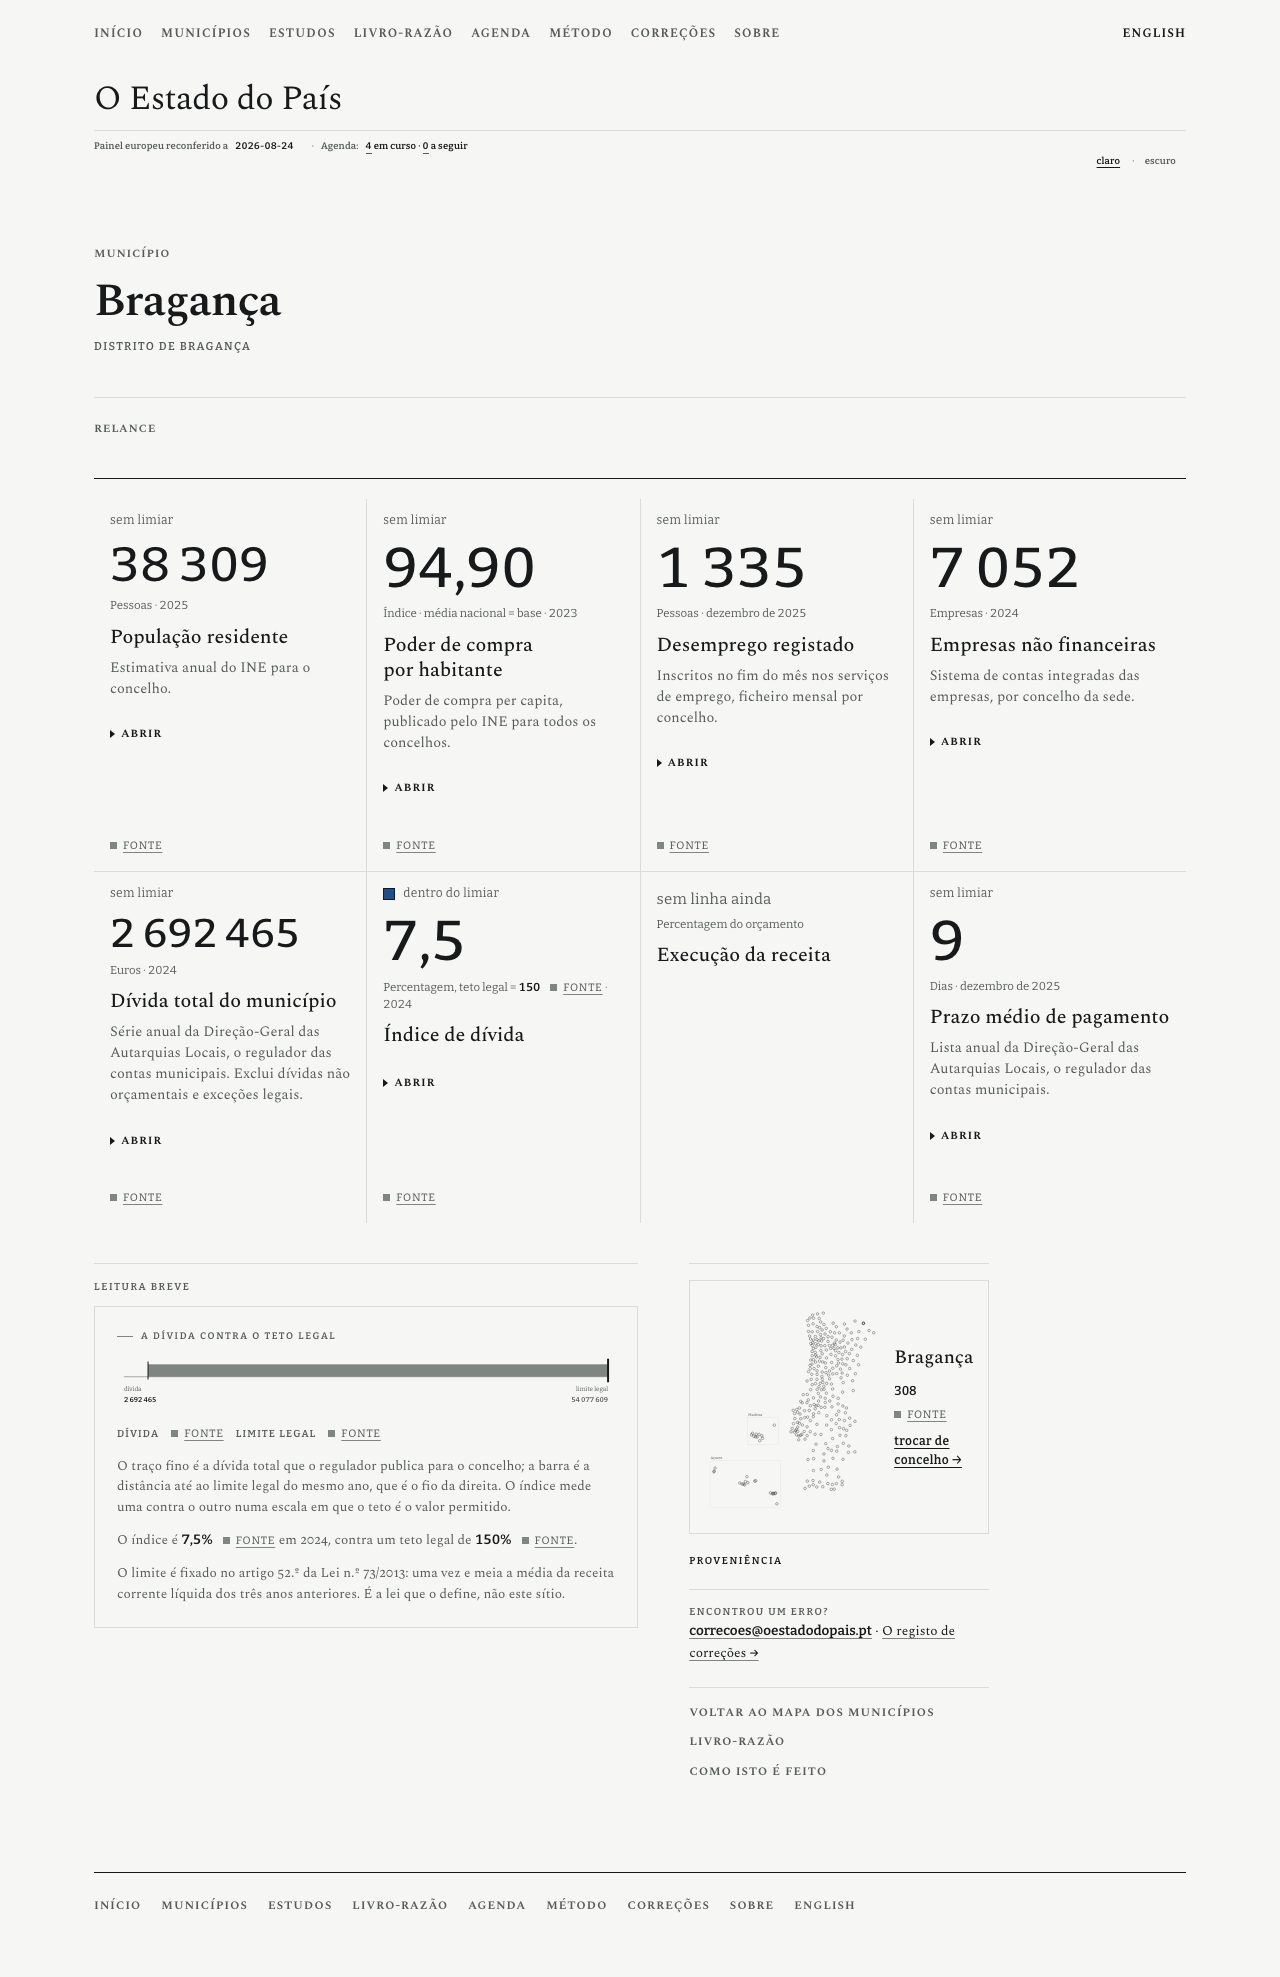
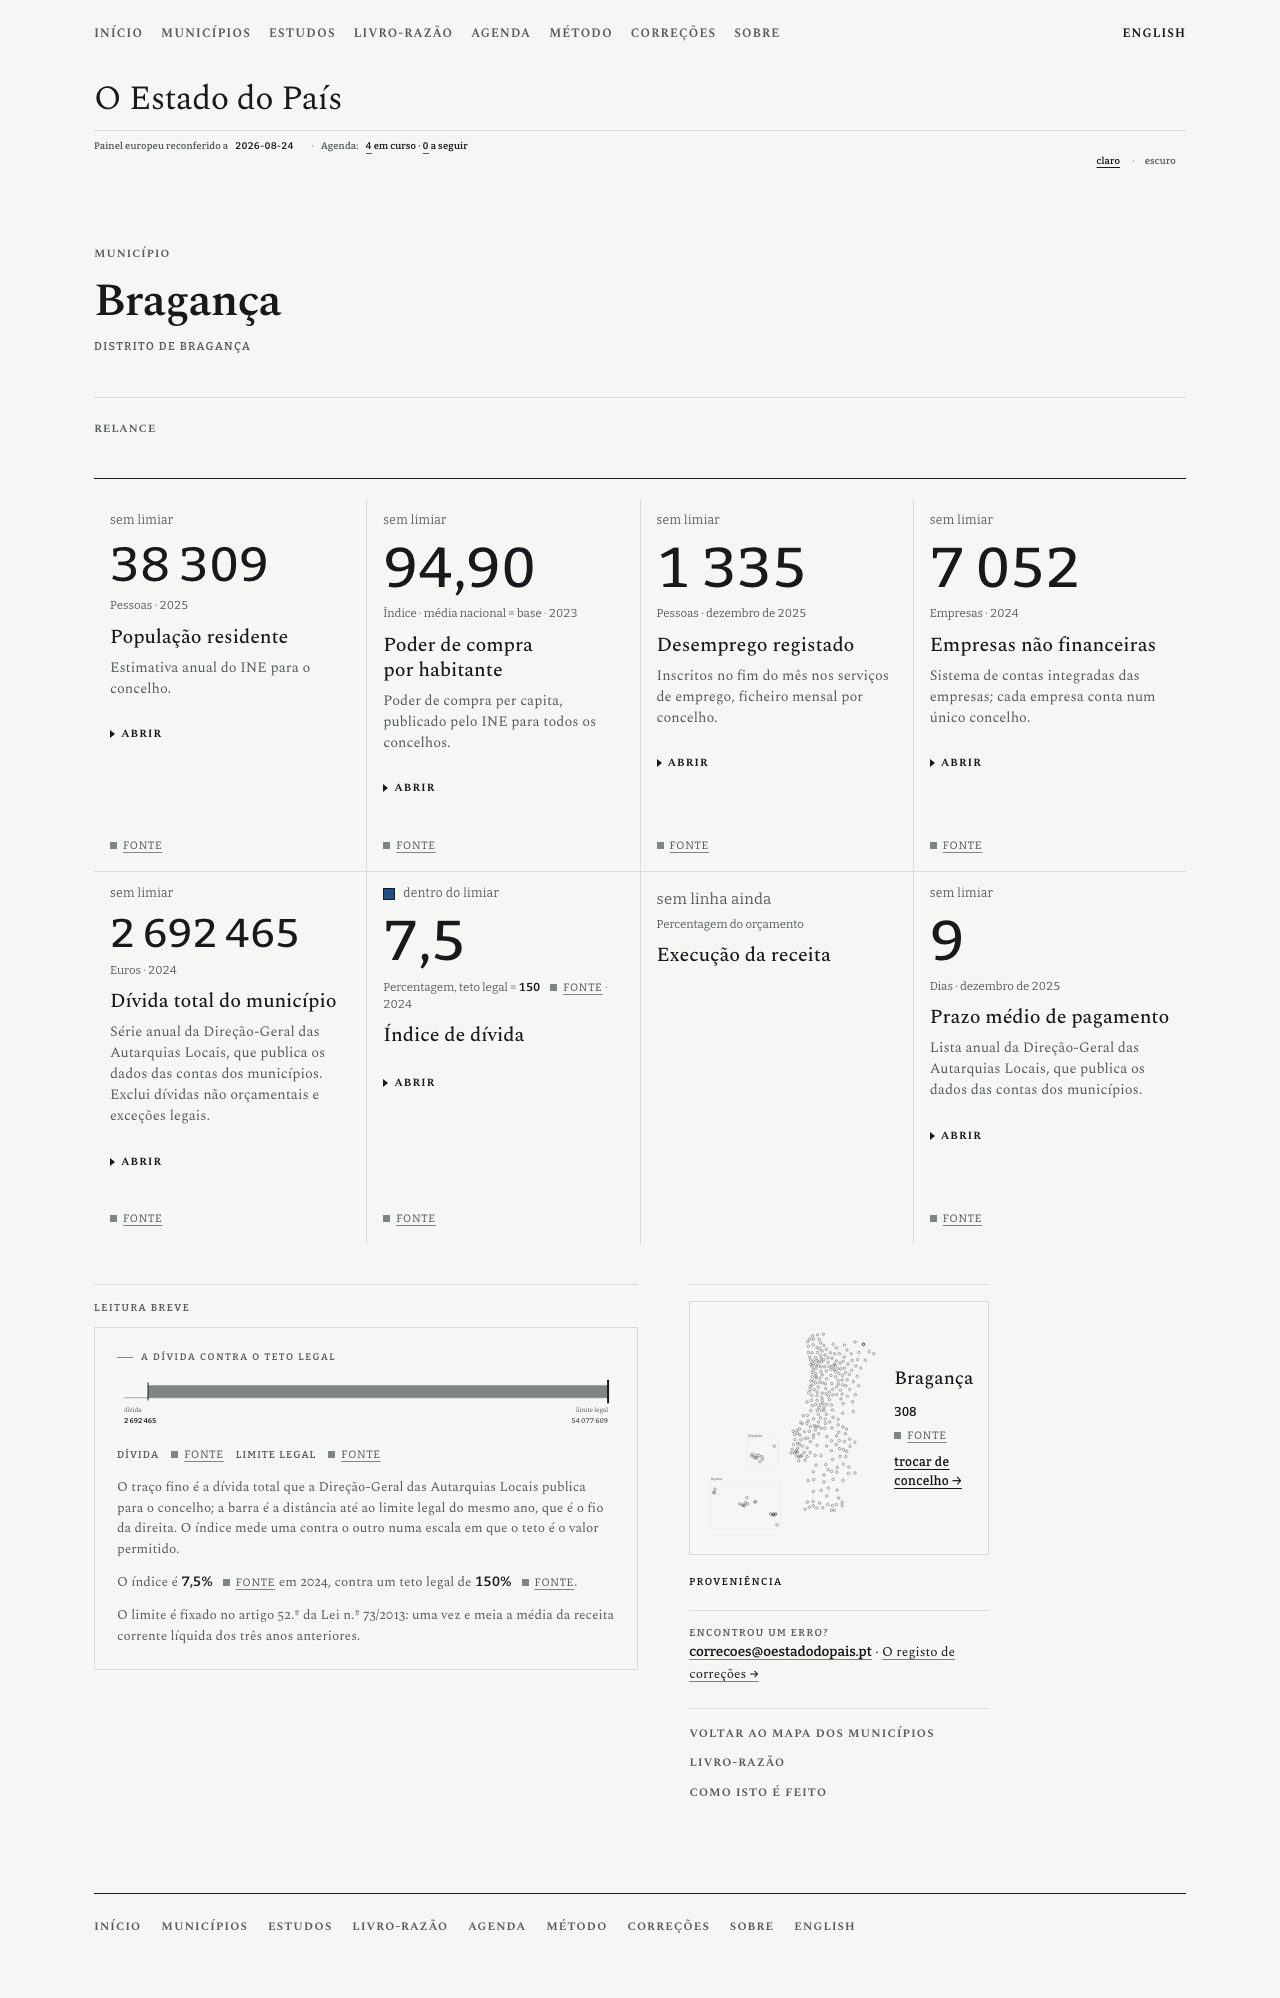
A §1.68 e a nota fecham a leitura de fora, com as doze capturas refrescadas
Os seis itens da leitura de olhos frescos registados: o que cada um corrigiu, as
duas coisas que a régua não apanhava e apanha agora, os seis estragos plantados e
a corrida completa com os dados (268,08 s, 6 406 páginas, 386 MB, tudo a sair
com zero).

E a colisão fica escrita: às 19:20, com os seis itens construídos e por cometer,
outro agente correu `git checkout` sobre doze ficheiros que julgava serem de um
script seu, e eram estes. Custou uma construção e cerca de vinte minutos. Cada
item passa a ser cometido assim que fica verde.

`CHAVES-EN.md` regista as duas edições de cada cadeia mudada: nenhuma chave nova,
onze textos mudados e um encurtado.

As capturas com dados voltam a ser tiradas onde a forma mudou: os dois índices,
a página de livro-razão de um concelho, e as três páginas de concelho.

Claude-Session: https://claude.ai/code/session_01BbaH3XteKcsmmN9VD6SGwU

diff --git a/design/especime-v3/notas/concelhos.md b/design/especime-v3/notas/concelhos.md
@@ -277,3 +277,63 @@ Os quatro últimos são plantados no `dist/`, que é o que o portão e as régua
 | `livro-concelhos-indice-*` | o índice dos concelhos no livro-razão, 10 751 px a 1280 |
 | `livro-concelho-braganca-*` | a página de livro-razão de um concelho, 1 449 px a 1280, com as suas oito linhas |
 | `linha-braganca-divida-*` | o recibo de uma linha da DGAL, com a sua proveniência |
+
+---
+
+## P2 · a leitura de fora (itens E7 a E12)
+
+*A leitura de olhos frescos do Codex sobre a construção congelada, mais as duas ressalvas do lugar de direção. Seis itens; um deles pára e volta ao motor.*
+
+### 15 · O que se corrigiu
+
+**E7 · a nota das empresas afirmava o que a verificação não confirmou.** Dizia «Sistema de contas integradas das empresas, por concelho da sede.» A verificação das fontes mediu-o e disse o contrário: a palavra «sede» não ocorre em nenhum dos 13 084 indicadores do catálogo do INE, o INE diz «Localização geográfica», e a única ocorrência de «Morada da sede da empresa» na nota metodológica está numa lista de variáveis de um serviço de listagens de sociedades, de janeiro de 2014, e não na metodologia de imputação geográfica. O que está provado é que cada empresa é imputada a um único concelho: os 308 somam exactamente o total nacional. A nota passa a dizer isso e nada mais. A busca por «sede» e «registered office» em todo o repositório deu mais duas superfícies vivas da mesma afirmação, as duas na página de Évora, e as duas foram corrigidas. Ficaram por tocar as que relatam o que o TRABALHO 06 escreve (`src/data/leituras.mjs`, ancorado à sua frase de origem, e a citação dele dentro da ressalva do método): são leituras de um trabalho, não afirmações da casa sobre a série do INE.
+
+**E8 · 617 etiquetas iguais.** «tem página» rendia-se em cada uma das 308 linhas do índice, mais uma por resultado da pesquisa, e a linha de cobertura em cima já diz o estado do todo com as suas duas contagens. Uma palavra de estado só diz alguma coisa se houver outro estado de que se distinga, que é a `IDENTIDADE.md` §7 lida ao contrário. As cadeias e a marca ficam: medido nos dois estados, com os 308 dá zero etiquetas, e com um concelho de fora do ficheiro dá 617 outra vez. A seta entrou na porta, porque sem a etiqueta o que ficava fora da ligação era uma seta sozinha, e o inventário passava a ter 307 blocos «Abrantes →».
+
+**E10 · a legenda da dívida falava do sítio.** «É a lei que o define, não este sítio.», em 616 páginas. Fica a lei, o artigo e a conta que ele manda fazer.
+
+**E11 · a DGAL não é um regulador.** É a direção-geral que publica os dados das contas dos municípios. Corrigido nas três notas das medidas dos 308 e em toda a prosa da casa que a nomeava assim. Fica «reguladores» em `src/data/metodo.mjs`, que é uma classe de fontes e não a DGAL.
+
+**E12 · 308 ligações dentro de um `role="img"`.** O cartão localizador rendia o mapa inteiro com cada ponto com página dentro de uma ligação, num SVG que se declara imagem: a tecnologia de apoio pode achatar o que está dentro de uma imagem, e os alvos são círculos de 4,5px de raio. O cartão localiza e não navega, e a regra N4 fica onde ela é: na primeira página, cujo SVG passa a `role="group"`. Medido no `dist/` inteiro: 1 947 SVG, zero com `role="img"` a conter uma ligação. Efeito lateral medido: as ligações internas conferidas caem de 427 298 para 237 570, e o `dist/` de 406 MB para 386 MB.
+
+### 16 · O que a régua não apanhava, e apanha agora
+
+**A célula da autorreferência olhava para duas rotas.** Pedia zero na PRIMEIRA PÁGINA e «nada por classificar» em rota nenhuma. Uma frase de autorreferência DECLARADA numa página de concelho passava pelas duas peneiras: declarada, e por isso não «por classificar»; fora da primeira página, e por isso não contada. Foi assim que a frase do E10 viveu em 616 páginas. Passa a exigir autorreferência zero em todas as **1 278** rotas medidas.
+
+**Uma frase corrigida não pode continuar declarada.** O inventário guarda as duas leituras de uma contagem lado a lado, e isso é certo: uma contagem volta a ser o que era no dia em que o livro-razão encolher. Uma frase corrigida é outra coisa. Plantadas de volta a nota da sede e a que chamava «regulador» à DGAL, **nenhuma das duas fechou coisa nenhuma**: estavam declaradas. As treze entradas das frases que os itens E7 e E11 corrigiram saíram da lista, e repô-las passa a ser um bloco por classificar. Medido nas duas.
+
+### 17 · Os estragos plantados, vistos vermelhos
+
+| estrago | o que o apanhou |
+|---|---|
+| uma etiqueta «tem página» forçada numa linha, com os 308 a terem página | a régua dos concelhos, célula 1 |
+| um concelho fora do ficheiro dos 308, para ver a etiqueta voltar | a mesma célula, do outro lado: 617 etiquetas |
+| a frase «É a lei que o define, não este sítio.» reposta numa página | a matriz · «autorreferência > 0 em 1: /municipios/braganca» |
+| a nota da sede reposta | a matriz · «por classificar em 1 rota(s)», depois de a entrada sair do inventário |
+| «o regulador das contas municipais» reposto | a mesma célula, pela mesma razão |
+| uma ligação plantada dentro do SVG do cartão localizador | a célula nova do `role="img"`, sobre o `dist/` inteiro |
+
+### 18 · A corrida completa, com os dados
+
+| comando | saída | o que diz |
+|---|---|---|
+| `npm run build` | 0 | **268,08 s** · **6 406 páginas** · **386 MB** · 29 436 ficheiros |
+| `npm run verify` | 0 | |
+| `npm run typecheck` | 0 | |
+| `node scripts/provar-eyetext.mjs` | 0 | |
+| `node scripts/check-cadeia.mjs` | 0 | |
+| `node scripts/medir-defeitos.mjs` | 0 | 0 blocos por classificar, 1 278 rotas |
+| `tests/municipio/concelhos.mjs` | 0 | 12 de 12 |
+| `tests/municipio/correcoes-c.mjs` | 0 | 12 de 12 |
+| `tests/inicio/matriz.mjs` | 0 | 87 de 87 |
+| `tests/inicio/mapa-navegacao.mjs` | 0 | 11 de 11 |
+| `tests/inicio/correcoes-a.mjs` | 0 | 32 de 32 |
+| `tests/linha/recibo.mjs` | 0 | 13 de 13 |
+| `tests/linha/correcoes-b.mjs` | 0 | 32 de 32 |
+| `tests/texto/correcoes-b.mjs` | 0 | 19 de 19 |
+| `tests/texto/correcoes-c.mjs` | 0 | 9 de 9 |
+| `tests/texto/leitura.mjs` | 0 | 51/51 |
+
+### 19 · Uma colisão de duas mãos na mesma árvore
+
+Às 19:20, com os itens E7 a E12 construídos e ainda por cometer, outro agente correu `git checkout` sobre doze ficheiros que julgava serem de um script seu. Eram as alterações destes seis itens: `INVENTARIO-FRASES.md`, `MapaRespira.astro`, `Pesquisa.astro`, `concelhos.mjs`, `municipios.mjs`, `strings.mjs`, `inicio.mjs`, `LivroConcelhosView.astro`, `MunicipiosView.astro`, e as três réguas. Os ficheiros novos, por indexar, não foram tocados. **Custou uma construção e cerca de vinte minutos**, porque o trabalho estava escrito e foi refeito do próprio relatório, cadeia a cadeia. Desde então cada item é cometido assim que fica verde, e há cópia de salvaguarda de cada ficheiro editado no rascunho, para que um repetir custe um item e não seis.

diff --git a/design/especime-v3/CHAVES-EN.md b/design/especime-v3/CHAVES-EN.md
@@ -608,3 +608,27 @@ línguas ao lado dos ids, como o resto daquele ficheiro:
 | nota da medida 8 | Lista anual da Direção-Geral das Autarquias Locais, o regulador das contas municipais. | The annual list of the local-government directorate, the regulator of municipal accounts. |
 | nome da medida 4 | Empresas não financeiras | Non-financial enterprises |
 | etiqueta de um concelho gerado | distrito de \<nome\> | district of \<nome\> |
+
+## Bloco dos 308 concelhos · a leitura de fora (E7 a E12), 26.08.2026
+
+**Nenhuma chave nova.** Os seis itens mudaram o TEXTO de cadeias que já existiam,
+nas duas edições, e uma delas encurtou. Ficam aqui as duas edições de cada uma,
+lado a lado, que é para o que este ficheiro serve.
+
+| onde | pt | en |
+|---|---|---|
+| nota da medida 4 (E7) | Sistema de contas integradas das empresas; cada empresa conta num único concelho. | Integrated business accounts; each enterprise counts in a single municipality. |
+| leitura breve de Évora (E7) | O concelho tem N empresas não financeiras. | The municipality has N non-financial enterprises. |
+| ressalva do método (E7) | …as contas das empresas do concelho, que creditam toda a atividade de uma empresa a um único concelho. | …the accounts of the municipality’s enterprises, which credit a firm’s whole activity to a single municipality. |
+| `municipio.distanciaLei` (E10) | O limite é fixado no artigo 52.º da Lei n.º 73/2013: uma vez e meia a média da receita corrente líquida dos três anos anteriores. | The limit is set by article 52.º of Lei n.º 73/2013: one and a half times the three-year average of net current revenue. |
+| nota da medida 5 (E11) | Série anual da Direção-Geral das Autarquias Locais, que publica os dados das contas dos municípios. Exclui dívidas não orçamentais e exceções legais. | The annual series of the local-government directorate, which publishes the municipalities’ accounts data. Excludes non-budgetary debt and legal exceptions. |
+| nota da medida 6 (E11) | Calculado sobre duas colunas do mesmo ficheiro da Direção-Geral das Autarquias Locais. A aritmética está na linha. | Computed from two columns of the same local-government directorate file. The arithmetic is on the row. |
+| nota da medida 8 (E11) | Lista anual da Direção-Geral das Autarquias Locais, que publica os dados das contas dos municípios. | The annual list of the local-government directorate, which publishes the municipalities’ accounts data. |
+| `municipio.distanciaLegenda` (E11) | O traço fino é a dívida total que a Direção-Geral das Autarquias Locais publica para o concelho… | The thin line is the total debt the local-government directorate publishes for the municipality… |
+| `municipio.contasDivergenciaRegulador` (E11) | A Direção-Geral publica | The directorate-general publishes |
+| `municipio.tempoRegulador` (E11) | A Direção-Geral | The directorate-general |
+| `municipio.tempoSerieA` (E11) | O índice de dívida da Direção-Geral desceu de | The directorate-general’s debt index fell from |
+
+**A que saiu**, e fica declarada como autorreferência no `INVENTARIO-FRASES.md`
+para que repô-la feche a construção: «É a lei que o define, não este sítio.» /
+«The law defines it, not this site.»

diff --git a/DECISIONS.md b/DECISIONS.md
@@ -11306,3 +11306,49 @@ reescrita para medir a regra e não a forma do ficheiro de teste: varre as 307
 páginas. Os seis estragos plantados, as medidas e os códigos de saída estão em
 `design/especime-v3/notas/concelhos.md` §P2 dados; as capturas com dados em
 `design/especime-v3/capturas/concelhos-2026-08-26/dados/`.
+
+#### P2, a leitura de fora
+
+Seis itens da leitura de olhos frescos, decididos pelo diretor a 26.08.2026.
+**A nota das empresas deixa de afirmar o que a verificação das fontes não
+confirmou:** o INE não diz «sede», diz «Localização geográfica», e o que está
+provado é que cada empresa é imputada a um único concelho. As outras duas
+superfícies vivas da mesma afirmação, as duas na página de Évora, foram
+corrigidas; ficaram por tocar as que relatam o que o trabalho 06 escreve, porque
+são leituras dele e não afirmações da casa sobre a série do INE.
+
+**A etiqueta de cobertura só se rende se houver outro estado de que se
+distinga.** Eram 617 «tem página» iguais no índice dos 308 e 616 no do
+livro-razão dos concelhos, com a linha de cobertura em cima já a dizer o estado
+do todo. As cadeias e a marca ficam, e voltam sozinhas no dia em que um concelho
+não tiver página: medido nos dois estados.
+
+**A legenda da dívida nomeia a lei e pára.** «É a lei que o define, não este
+sítio.» rendia-se em 616 páginas; é o sítio a falar de si. **E a Direção-Geral
+das Autarquias Locais deixa de ser chamada «o regulador»**: é a direção-geral que
+publica os dados das contas dos municípios.
+
+**O cartão localizador localiza e não navega.** Rendia 308 ligações dentro de um
+SVG com `role="img"`, em cada uma das 616 páginas de concelho, com alvos de
+4,5px de raio: a tecnologia de apoio pode achatar o que está dentro de uma
+imagem. A regra N4 fica onde ela é, na primeira página, cujo SVG passa a
+`role="group"`. Medido no `dist/` inteiro: zero ligações dentro de um
+`role="img"`, e as ligações internas conferidas a caírem de 427 298 para
+237 570.
+
+**Duas coisas que a régua não apanhava, e apanha agora.** A célula da
+autorreferência pedia zero na PRIMEIRA PÁGINA e «nada por classificar» em rota
+nenhuma: uma frase de autorreferência DECLARADA numa página de concelho passava
+pelas duas peneiras, e foi assim que a frase da legenda viveu em 616 páginas.
+Passa a exigir zero nas 1 278 rotas medidas. E uma frase CORRIGIDA não pode
+continuar declarada no inventário: plantadas de volta, a nota da sede e a que
+chamava «regulador» à DGAL não fecharam coisa nenhuma, porque estavam
+declaradas. As treze entradas saíram da lista.
+
+**A escala depois destes seis:** 268,08 s, 6 406 páginas, 386 MB.
+
+**Uma colisão de duas mãos na mesma árvore.** Com os seis itens construídos e
+ainda por cometer, outro agente correu `git checkout` sobre doze ficheiros que
+julgava serem de um script seu, e eram estes. Custou uma construção e cerca de
+vinte minutos; o trabalho foi refeito do relatório, cadeia a cadeia. Cada item
+passa a ser cometido assim que fica verde.
